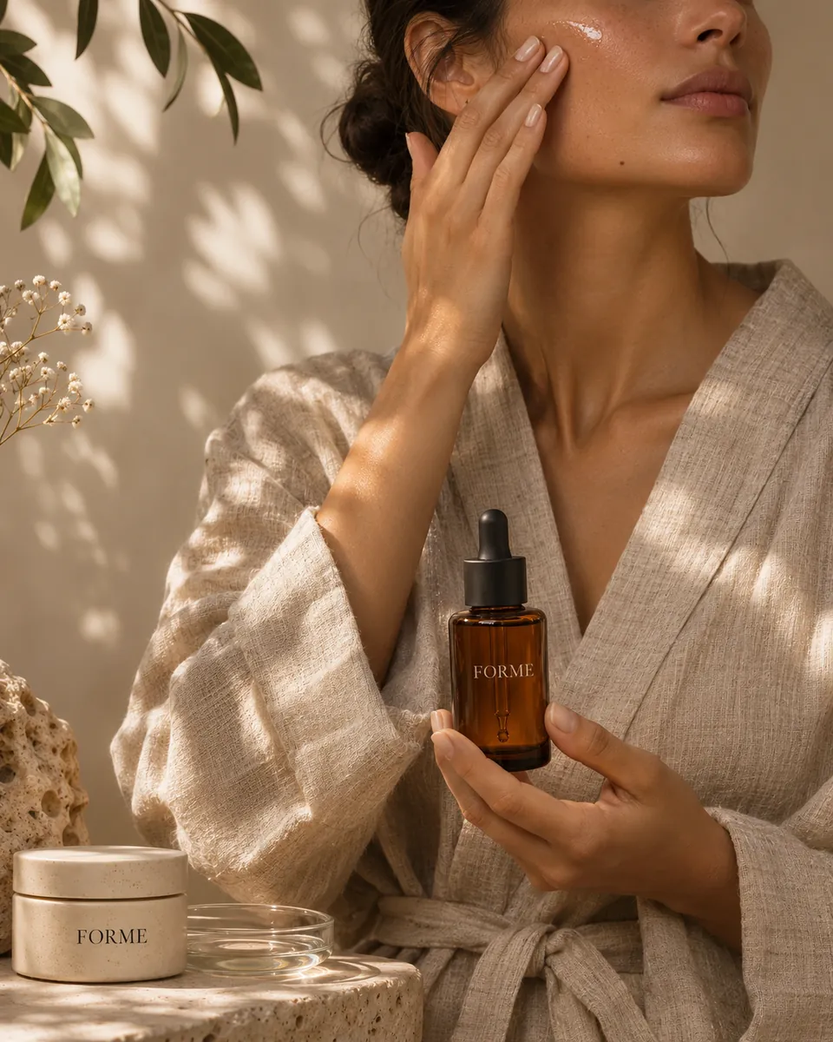
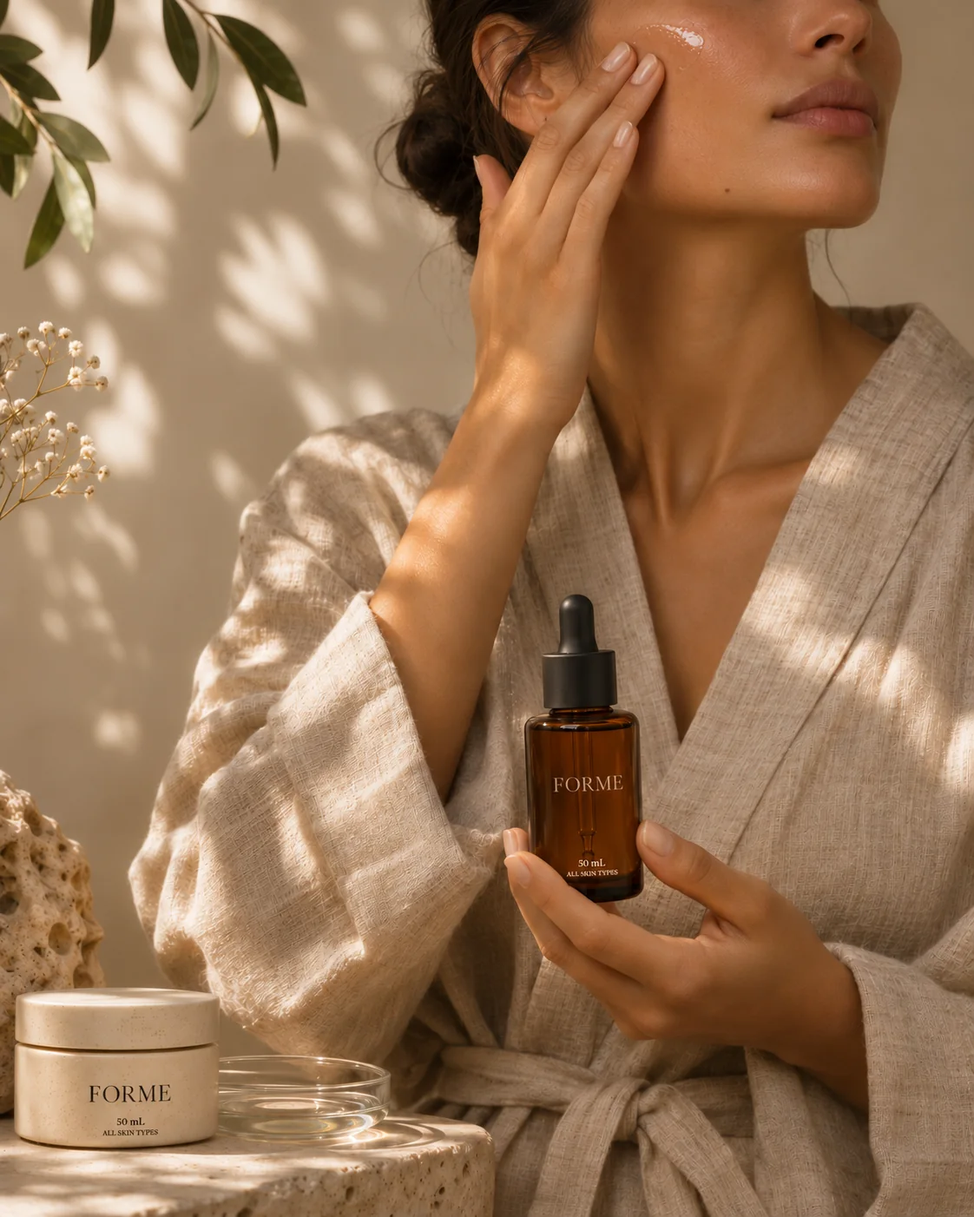
Update FORME with the new product photography
- Replace nine product, ritual and lifestyle images, with new labelled cut-outs
- Match the Dawn to Dusk Set to its photo: 50 ml serum, 30 ml elixir, 50 ml creme, A$249
- Stop the size options switching to an unrelated product image

Claude-Session: https://claude.ai/code/session_014mpj7FuxCNBg9oJHhCkLv3

diff --git a/public/forme/index.html b/public/forme/index.html
@@ -14,7 +14,6 @@
 <link href="https://fonts.googleapis.com/css2?family=Italiana&family=Jost:wght@300;400;500&family=Cormorant+Garamond:ital,wght@1,400;1,500&display=swap" rel="stylesheet">
 <link rel="stylesheet" href="/store-kit/kit.css?v=20261104a">
 <link rel="stylesheet" href="/forme/brand.css?v=20261104a">
-<link rel="preload" as="image" href="/forme/img/hero.webp">
 </head>
 <body class="fm">
 <a class="skip" href="#main">Skip to content</a>
@@ -46,17 +45,17 @@
     <div class="fm-hero-foot">
       <p class="fm-lead">Three formulas for a considered daily ritual. Fewer steps, clearer choices, and nothing you will not finish.</p>
       <div class="fm-stats"><div><b data-count="3">3</b><span>Formulas</span></div><div><b data-count="2">2</b><span>Sizes each</span></div><div><b data-count="100" data-suffix="%">100%</b><span>Refillable jars</span></div></div>
-      <div class="fm-picks"><button class="fm-pick" type="button" data-qv="radiant-serum" aria-label="View Daylight Serum"><span class="lbl">Serum</span><span class="fm-pick-ph"><img src="/forme/img/serum.webp?v=2" alt="" loading="lazy"></span><i aria-hidden="true">↗</i></button><button class="fm-pick" type="button" data-qv="restore-elixir" aria-label="View Nightfall Elixir"><span class="lbl">Elixir</span><span class="fm-pick-ph"><img src="/forme/img/elixir.webp?v=2" alt="" loading="lazy"></span><i aria-hidden="true">↗</i></button><button class="fm-pick" type="button" data-qv="nourishing-creme" aria-label="View Soft Stone Crème"><span class="lbl">Crème</span><span class="fm-pick-ph"><img src="/forme/img/creme.webp?v=2" alt="" loading="lazy"></span><i aria-hidden="true">↗</i></button></div>
+      <div class="fm-picks"><button class="fm-pick" type="button" data-qv="radiant-serum" aria-label="View Daylight Serum"><span class="lbl">Serum</span><span class="fm-pick-ph"><img src="/forme/img/serum.webp?v=3" alt="" loading="lazy"></span><i aria-hidden="true">↗</i></button><button class="fm-pick" type="button" data-qv="restore-elixir" aria-label="View Nightfall Elixir"><span class="lbl">Elixir</span><span class="fm-pick-ph"><img src="/forme/img/elixir.webp?v=3" alt="" loading="lazy"></span><i aria-hidden="true">↗</i></button><button class="fm-pick" type="button" data-qv="nourishing-creme" aria-label="View Soft Stone Crème"><span class="lbl">Crème</span><span class="fm-pick-ph"><img src="/forme/img/creme.webp?v=3" alt="" loading="lazy"></span><i aria-hidden="true">↗</i></button></div>
     </div>
   </div>
 </section>
 
 <section class="sec fm-believe">
   <figure class="fm-float l" data-speed=".14" aria-hidden="true"><img src="/forme/img/botanicals.webp" alt="" loading="lazy"></figure>
-  <figure class="fm-float r" data-speed="-.1" aria-hidden="true"><img src="/forme/img/model-ritual.webp" alt="" loading="lazy"></figure>
+  <figure class="fm-float r" data-speed="-.1" aria-hidden="true"><img src="/forme/img/model-ritual.webp?v=3" alt="" loading="lazy"></figure>
   <div class="wrap">
     <p class="fm-note" data-r>Every FORME formula is measured in drops, refilled not replaced, and listed with its sizes and price side by side.</p>
-    <h2 class="fm-bel" id="scrub">We believe in <span class="fm-chip" aria-hidden="true"><img src="/forme/img/serum.webp?v=2" alt=""></span> <b>beauty</b> that starts with <span class="fm-chip w" aria-hidden="true"><img src="/forme/img/elixir-hand.webp" alt=""></span> <b>self-care.</b></h2>
+    <h2 class="fm-bel" id="scrub">We believe in <span class="fm-chip" aria-hidden="true"><img src="/forme/img/serum.webp?v=3" alt=""></span> <b>beauty</b> that starts with <span class="fm-chip w" aria-hidden="true"><img src="/forme/img/elixir-hand.webp" alt=""></span> <b>self-care.</b></h2>
   </div>
 </section>
 
@@ -65,24 +64,24 @@
     <div class="sec-h"><div><span class="eb lbl">The considered collection</span><h2 class="disp" data-r>Shop FORME</h2></div><div style="display:flex;flex-direction:column;gap:16px;align-items:flex-end"><p data-r>Every formula in two sizes, with refills to keep the ritual going.</p><div class="filters" role="group" aria-label="Filter products"><button class="chip" type="button" data-f="all" aria-pressed="true">All</button><button class="chip" type="button" data-f="serums" aria-pressed="false">Serums</button><button class="chip" type="button" data-f="oils" aria-pressed="false">Oils</button><button class="chip" type="button" data-f="moisturisers" aria-pressed="false">Moisturisers</button><button class="chip" type="button" data-f="sets" aria-pressed="false">Sets</button></div></div></div>
     <div class="grid" id="grid">
         <div class="card fm-card" data-id="radiant-serum" data-cat="serums" data-r data-cursor="View" style="--tone:#6b4636">
-          <div class="ph"><span class="ast" aria-hidden="true">*</span><h3 class="fm-tt" aria-hidden="true">Daylight <i>Serum</i></h3><div class="rings" aria-hidden="true"><span class="ring r0"><span>Vitamin C</span></span><span class="ring r1"><span>Brightening</span></span></div><div class="stack"><img class="cut c0" src="/forme/img/cut-serum.webp?v=2" alt="FORME Daylight Serum in an amber dropper bottle" loading="lazy" decoding="async"></div>
+          <div class="ph"><span class="ast" aria-hidden="true">*</span><h3 class="fm-tt" aria-hidden="true">Daylight <i>Serum</i></h3><div class="rings" aria-hidden="true"><span class="ring r0"><span>Vitamin C</span></span><span class="ring r1"><span>Brightening</span></span></div><div class="stack"><img class="cut c0" src="/forme/img/cut-serum.webp?v=3" alt="FORME Daylight Serum in an amber bottle with a black dropper" loading="lazy" decoding="async"></div>
             <span class="fm-from lbl" aria-hidden="true">Brightening serum</span><button class="open" type="button" aria-label="View Daylight Serum, A$89"></button><button class="qa" type="button" aria-label="Quick add Daylight Serum to bag"><span>Quick add</span><span aria-hidden="true">+</span></button></div>
           <div class="meta"><h3>Daylight Serum</h3><span class="pr">From A$89</span><span class="ty">Brightening serum</span></div>
         </div>
         <div class="card fm-card" data-id="restore-elixir" data-cat="oils" data-r data-cursor="View" style="--tone:#8a5a45">
-          <div class="ph"><span class="ast" aria-hidden="true">*</span><h3 class="fm-tt" aria-hidden="true">Nightfall <i>Elixir</i></h3><div class="rings" aria-hidden="true"><span class="ring r0"><span>Squalane</span></span><span class="ring r1"><span>Overnight</span></span></div><div class="stack"><img class="cut c0" src="/forme/img/cut-elixir.webp?v=2" alt="FORME Nightfall Elixir in a small amber bottle" loading="lazy" decoding="async"></div>
+          <div class="ph"><span class="ast" aria-hidden="true">*</span><h3 class="fm-tt" aria-hidden="true">Nightfall <i>Elixir</i></h3><div class="rings" aria-hidden="true"><span class="ring r0"><span>Squalane</span></span><span class="ring r1"><span>Overnight</span></span></div><div class="stack"><img class="cut c0" src="/forme/img/cut-elixir.webp?v=3" alt="FORME Nightfall Elixir in an amber bottle with a gold collar" loading="lazy" decoding="async"></div>
             <span class="fm-from lbl" aria-hidden="true">Overnight facial oil</span><button class="open" type="button" aria-label="View Nightfall Elixir, A$72"></button><button class="qa" type="button" aria-label="Quick add Nightfall Elixir to bag"><span>Quick add</span><span aria-hidden="true">+</span></button></div>
           <div class="meta"><h3>Nightfall Elixir</h3><span class="pr">From A$72</span><span class="ty">Overnight facial oil</span></div>
         </div>
         <div class="card fm-card" data-id="nourishing-creme" data-cat="moisturisers" data-r data-cursor="View" style="--tone:#a77b62">
-          <div class="ph"><span class="ast" aria-hidden="true">*</span><h3 class="fm-tt" aria-hidden="true">Soft Stone <i>Crème</i></h3><div class="rings" aria-hidden="true"><span class="ring r0"><span>Ceramides</span></span><span class="ring r1"><span>Barrier</span></span></div><div class="stack"><img class="cut c0" src="/forme/img/cut-creme.webp?v=2" alt="FORME Soft Stone Crème in a sculpted stone-white jar" loading="lazy" decoding="async"></div>
+          <div class="ph"><span class="ast" aria-hidden="true">*</span><h3 class="fm-tt" aria-hidden="true">Soft Stone <i>Crème</i></h3><div class="rings" aria-hidden="true"><span class="ring r0"><span>Ceramides</span></span><span class="ring r1"><span>Barrier</span></span></div><div class="stack"><img class="cut c0" src="/forme/img/cut-creme.webp?v=3" alt="FORME Soft Stone Crème in a stone-textured jar" loading="lazy" decoding="async"></div>
             <span class="fm-from lbl" aria-hidden="true">Rich moisturiser</span><button class="open" type="button" aria-label="View Soft Stone Crème, A$84"></button><button class="qa" type="button" aria-label="Quick add Soft Stone Crème to bag"><span>Quick add</span><span aria-hidden="true">+</span></button></div>
           <div class="meta"><h3>Soft Stone Crème</h3><span class="pr">From A$84</span><span class="ty">Rich moisturiser</span></div>
         </div>
         <div class="card fm-card" data-id="daily-ritual" data-cat="sets" data-r data-cursor="View" style="--tone:#4a2e24">
-          <div class="ph"><span class="ast" aria-hidden="true">*</span><h3 class="fm-tt" aria-hidden="true">Dawn to <i>Dusk</i></h3><div class="rings" aria-hidden="true"><span class="ring r0"><span>Serum</span></span><span class="ring r1"><span>Elixir</span></span><span class="ring r2"><span>Crème</span></span></div><div class="stack many"><img class="cut c0" src="/forme/img/cut-elixir.webp?v=2" alt="The FORME Dawn to Dusk Set: serum, elixir and crème together" loading="lazy" decoding="async"><img class="cut c1" src="/forme/img/cut-serum.webp?v=2" alt="" loading="lazy" decoding="async"><img class="cut c2" src="/forme/img/cut-creme.webp?v=2" alt="" loading="lazy" decoding="async"></div>
-            <span class="fm-from lbl" aria-hidden="true">Serum, elixir &amp; crème</span><button class="open" type="button" aria-label="View The Dawn to Dusk Set, A$215"></button><button class="qa" type="button" aria-label="Quick add The Dawn to Dusk Set to bag"><span>Quick add</span><span aria-hidden="true">+</span></button></div>
-          <div class="meta"><h3>The Dawn to Dusk Set</h3><span class="pr">A$215</span><span class="ty">Serum, elixir &amp; crème</span></div>
+          <div class="ph"><span class="ast" aria-hidden="true">*</span><h3 class="fm-tt" aria-hidden="true">Dawn to <i>Dusk</i></h3><div class="rings" aria-hidden="true"><span class="ring r0"><span>Serum</span></span><span class="ring r1"><span>Elixir</span></span><span class="ring r2"><span>Crème</span></span></div><div class="stack many"><img class="cut c0" src="/forme/img/cut-elixir.webp?v=3" alt="The FORME Dawn to Dusk Set: serum, elixir and crème together" loading="lazy" decoding="async"><img class="cut c1" src="/forme/img/cut-serum.webp?v=3" alt="" loading="lazy" decoding="async"><img class="cut c2" src="/forme/img/cut-creme.webp?v=3" alt="" loading="lazy" decoding="async"></div>
+            <span class="fm-from lbl" aria-hidden="true">Serum, elixir &amp; crème</span><button class="open" type="button" aria-label="View The Dawn to Dusk Set, A$249"></button><button class="qa" type="button" aria-label="Quick add The Dawn to Dusk Set to bag"><span>Quick add</span><span aria-hidden="true">+</span></button></div>
+          <div class="meta"><h3>The Dawn to Dusk Set</h3><span class="pr">A$249</span><span class="ty">Serum, elixir &amp; crème</span></div>
         </div>
     </div>
   </div>
@@ -92,15 +91,15 @@
   <div class="wrap">
     <form class="pdp" id="pdpForm" data-id="radiant-serum" novalidate>
       <div class="gal">
-        <div class="thumbs"><button type="button" aria-label="Image 1 of 4" aria-current="true"><img src="/forme/img/serum.webp?v=2" alt="" loading="lazy"></button><button type="button" aria-label="Image 2 of 4" aria-current="false"><img src="/forme/img/serum-texture.webp" alt="" loading="lazy"></button><button type="button" aria-label="Image 3 of 4" aria-current="false"><img src="/forme/img/model-ritual.webp" alt="" loading="lazy"></button><button type="button" aria-label="Image 4 of 4" aria-current="false"><img src="/forme/img/ritual-set.webp?v=2" alt="" loading="lazy"></button></div>
-        <div class="stage" id="stage" data-cursor="Zoom"><img src="/forme/img/serum.webp?v=2" alt="FORME Daylight Serum in an amber dropper bottle" class="on" decoding="async"><img src="/forme/img/serum-texture.webp" alt="" class="" decoding="async" loading=lazy><img src="/forme/img/model-ritual.webp" alt="" class="" decoding="async" loading=lazy><img src="/forme/img/ritual-set.webp?v=2" alt="" class="" decoding="async" loading=lazy><span class="n lbl">1 / 4</span></div>
+        <div class="thumbs"><button type="button" aria-label="Image 1 of 4" aria-current="true"><img src="/forme/img/serum.webp?v=3" alt="" loading="lazy"></button><button type="button" aria-label="Image 2 of 4" aria-current="false"><img src="/forme/img/serum-texture.webp" alt="" loading="lazy"></button><button type="button" aria-label="Image 3 of 4" aria-current="false"><img src="/forme/img/model-ritual.webp?v=3" alt="" loading="lazy"></button><button type="button" aria-label="Image 4 of 4" aria-current="false"><img src="/forme/img/ritual-set.webp?v=3" alt="" loading="lazy"></button></div>
+        <div class="stage" id="stage" data-cursor="Zoom"><img src="/forme/img/serum.webp?v=3" alt="FORME Daylight Serum in an amber bottle with a black dropper" class="on" decoding="async"><img src="/forme/img/serum-texture.webp" alt="" class="" decoding="async" loading=lazy><img src="/forme/img/model-ritual.webp?v=3" alt="" class="" decoding="async" loading=lazy><img src="/forme/img/ritual-set.webp?v=3" alt="" class="" decoding="async" loading=lazy><span class="n lbl">1 / 4</span></div>
       </div>
       <div class="info">
         <span class="lbl muted">Collection / 01</span>
         <h2 class="disp">Daylight Serum</h2>
         <div class="price"><span class="pv"><span id="pdpPrice">A$89</span></span><small>Brightening serum</small></div>
         <p>A lightweight serum for a brighter, more even look. Three drops, morning and night.</p>
-        <fieldset class="opt"><legend class="lbl muted">Size</legend><div class="opts"><input type="radio" name="opt" id="opt0" value="30 ml" checked data-img="0"><label for="opt0">30 ml</label><input type="radio" name="opt" id="opt1" value="50 ml" data-img="1"><label for="opt1">50 ml</label></div></fieldset>
+        <fieldset class="opt"><legend class="lbl muted">Size</legend><div class="opts"><input type="radio" name="opt" id="opt0" value="30 ml" checked><label for="opt0">30 ml</label><input type="radio" name="opt" id="opt1" value="50 ml"><label for="opt1">50 ml</label></div></fieldset>
         <div class="buy"><div class="qty"><button type="button" data-d="-1" aria-label="Decrease quantity">−</button><output id="qty" aria-live="polite">1</output><button type="button" data-d="1" aria-label="Increase quantity">+</button></div>
           <button class="btn wide" id="addBtn" type="submit"><span class="st">Add to bag</span><span class="st2">Added ✓</span></button></div>
         <div class="assure"><div>Free delivery over A$120</div><div>30-day returns</div><div>Refills available</div></div>
@@ -119,7 +118,7 @@
       <ol class="fm-steps" id="fmSteps"><li><button type="button" class="fm-step" data-step="0"><b>01</b><span><strong>Cleanse</strong>Start on clean, dry skin. Pat, do not rub.</span></button></li><li><button type="button" class="fm-step on" data-step="1"><b>02</b><span><strong>Serum</strong>Three drops of Daylight Serum, pressed in with your palms.</span></button><a class="fm-step-add" href="#" data-add="radiant-serum" aria-label="Add Serum to bag"><span class="t">Add</span> +</a></li><li><button type="button" class="fm-step" data-step="2"><b>03</b><span><strong>Elixir</strong>Evenings: two drops of Nightfall Elixir to seal it in.</span></button><a class="fm-step-add" href="#" data-add="restore-elixir" aria-label="Add Elixir to bag"><span class="t">Add</span> +</a></li><li><button type="button" class="fm-step" data-step="3"><b>04</b><span><strong>Crème</strong>Soft Stone Crème last, morning and night.</span></button><a class="fm-step-add" href="#" data-add="nourishing-creme" aria-label="Add Crème to bag"><span class="t">Add</span> +</a></li></ol>
       <p class="fm-small">Morning: steps 1, 2 and 4. Evening: all four.</p></div>
     <div class="fm-panel-vis" aria-hidden="true"><svg class="fm-orbit" viewBox="0 0 400 400"><circle cx="200" cy="200" r="150"/><circle cx="200" cy="200" r="190"/></svg>
-      <span class="fm-tag t1">Clean actives</span><span class="fm-tag t2">Refillable glass</span><img class="ph" src="/forme/img/botanicals.webp" alt="" data-i="0" loading="lazy"><img class="cut on" src="/forme/img/cut-serum.webp?v=2" alt="" data-i="1" loading="lazy"><img class="cut" src="/forme/img/cut-elixir.webp?v=2" alt="" data-i="2" loading="lazy"><img class="cut" src="/forme/img/cut-creme.webp?v=2" alt="" data-i="3" loading="lazy"></div>
+      <span class="fm-tag t1">Clean actives</span><span class="fm-tag t2">Refillable glass</span><img class="ph" src="/forme/img/botanicals.webp" alt="" data-i="0" loading="lazy"><img class="cut on" src="/forme/img/cut-serum.webp?v=3" alt="" data-i="1" loading="lazy"><img class="cut" src="/forme/img/cut-elixir.webp?v=3" alt="" data-i="2" loading="lazy"><img class="cut" src="/forme/img/cut-creme.webp?v=3" alt="" data-i="3" loading="lazy"></div>
   </div></div>
 </section>
 <section class="sec" id="story">
@@ -133,7 +132,7 @@
 
 <section class="sec" id="journal" style="padding-top:0">
   <div class="wrap"><div class="sec-h"><div><span class="eb lbl">Journal</span><h2 class="fm-h2" data-r>Notes on <i>daily care</i></h2></div><p class="lbl muted">Drag to explore</p></div></div>
-  <div class="reel" id="reel" data-cursor="Drag" tabindex="0" aria-label="Journal, use arrow keys to scroll"><div class="track"><figure class="slide fm-tile" style="margin:0"><div class="ph"><img src="/forme/img/journal-morning.webp" alt="" loading="lazy" draggable="false"><span class="ast" aria-hidden="true">*</span><figcaption><span class="lbl">Journal 01</span><span class="fm-tile-t">How to <i>layer</i> skincare</span><span class="lbl">forme.com.au →</span></figcaption></div></figure><figure class="slide fm-tile" style="margin:0"><div class="ph"><img src="/forme/img/serum-texture.webp" alt="" loading="lazy" draggable="false"><span class="ast" aria-hidden="true">*</span><figcaption><span class="lbl">Journal 02</span><span class="fm-tile-t">Why <i>three</i> drops</span><span class="lbl">forme.com.au →</span></figcaption></div></figure><figure class="slide fm-tile" style="margin:0"><div class="ph"><img src="/forme/img/botanicals.webp" alt="" loading="lazy" draggable="false"><span class="ast" aria-hidden="true">*</span><figcaption><span class="lbl">Journal 03</span><span class="fm-tile-t">Sourced <i>slowly</i></span><span class="lbl">forme.com.au →</span></figcaption></div></figure><figure class="slide fm-tile" style="margin:0"><div class="ph"><img src="/forme/img/creme-texture.webp" alt="" loading="lazy" draggable="false"><span class="ast" aria-hidden="true">*</span><figcaption><span class="lbl">Journal 04</span><span class="fm-tile-t">The case for <i>refills</i></span><span class="lbl">forme.com.au →</span></figcaption></div></figure><figure class="slide fm-tile" style="margin:0"><div class="ph"><img src="/forme/img/stone-water.webp" alt="" loading="lazy" draggable="false"><span class="ast" aria-hidden="true">*</span><figcaption><span class="lbl">Journal 05</span><span class="fm-tile-t">Material <i>study</i></span><span class="lbl">forme.com.au →</span></figcaption></div></figure><figure class="slide fm-tile" style="margin:0"><div class="ph"><img src="/forme/img/journal-shelf.webp" alt="" loading="lazy" draggable="false"><span class="ast" aria-hidden="true">*</span><figcaption><span class="lbl">Journal 06</span><span class="fm-tile-t">Amber <i>glass</i></span><span class="lbl">forme.com.au →</span></figcaption></div></figure></div></div>
+  <div class="reel" id="reel" data-cursor="Drag" tabindex="0" aria-label="Journal, use arrow keys to scroll"><div class="track"><figure class="slide fm-tile" style="margin:0"><div class="ph"><img src="/forme/img/journal-morning.webp?v=3" alt="" loading="lazy" draggable="false"><span class="ast" aria-hidden="true">*</span><figcaption><span class="lbl">Journal 01</span><span class="fm-tile-t">How to <i>layer</i> skincare</span><span class="lbl">forme.com.au →</span></figcaption></div></figure><figure class="slide fm-tile" style="margin:0"><div class="ph"><img src="/forme/img/serum-texture.webp" alt="" loading="lazy" draggable="false"><span class="ast" aria-hidden="true">*</span><figcaption><span class="lbl">Journal 02</span><span class="fm-tile-t">Why <i>three</i> drops</span><span class="lbl">forme.com.au →</span></figcaption></div></figure><figure class="slide fm-tile" style="margin:0"><div class="ph"><img src="/forme/img/botanicals.webp" alt="" loading="lazy" draggable="false"><span class="ast" aria-hidden="true">*</span><figcaption><span class="lbl">Journal 03</span><span class="fm-tile-t">Sourced <i>slowly</i></span><span class="lbl">forme.com.au →</span></figcaption></div></figure><figure class="slide fm-tile" style="margin:0"><div class="ph"><img src="/forme/img/creme-texture.webp" alt="" loading="lazy" draggable="false"><span class="ast" aria-hidden="true">*</span><figcaption><span class="lbl">Journal 04</span><span class="fm-tile-t">The case for <i>refills</i></span><span class="lbl">forme.com.au →</span></figcaption></div></figure><figure class="slide fm-tile" style="margin:0"><div class="ph"><img src="/forme/img/stone-water.webp" alt="" loading="lazy" draggable="false"><span class="ast" aria-hidden="true">*</span><figcaption><span class="lbl">Journal 05</span><span class="fm-tile-t">Material <i>study</i></span><span class="lbl">forme.com.au →</span></figcaption></div></figure><figure class="slide fm-tile" style="margin:0"><div class="ph"><img src="/forme/img/journal-shelf.webp" alt="" loading="lazy" draggable="false"><span class="ast" aria-hidden="true">*</span><figcaption><span class="lbl">Journal 06</span><span class="fm-tile-t">Amber <i>glass</i></span><span class="lbl">forme.com.au →</span></figcaption></div></figure></div></div>
   <div class="wrap"><div class="reel-bar"><div class="pg"><b></b></div><span class="lbl muted">06 notes</span></div></div>
 </section>
 
@@ -193,7 +192,7 @@
 <div class="toast" id="toast" role="status" aria-live="polite"></div>
 <div class="cur" id="cur" aria-hidden="true"><b></b></div>
 
-<script type="application/json" id="catalog">{"products": [{"id": "radiant-serum", "name": "Daylight Serum", "type": "Brightening serum", "cat": "serums", "price": 89, "img": "/forme/img/serum.webp?v=2", "alt": "FORME Daylight Serum in an amber dropper bottle", "desc": "A lightweight serum for a brighter, more even look. Three drops, morning and night.", "gallery": ["/forme/img/serum.webp?v=2", "/forme/img/serum-texture.webp", "/forme/img/model-ritual.webp", "/forme/img/ritual-set.webp?v=2"], "options": {"label": "Size", "values": [{"v": "30 ml", "price": 89, "img": 0}, {"v": "50 ml", "price": 128, "img": 1}]}, "details": [["Size", "30 ml or 50 ml amber glass"], ["Skin type", "All skin types"], ["Use", "3 drops, morning and night"], ["Texture", "Weightless, absorbs in seconds"]]}, {"id": "restore-elixir", "name": "Nightfall Elixir", "type": "Overnight facial oil", "cat": "oils", "price": 72, "img": "/forme/img/elixir.webp?v=2", "alt": "FORME Nightfall Elixir in a small amber bottle", "desc": "A silky overnight oil that leaves skin soft and settled by morning.", "gallery": ["/forme/img/elixir.webp?v=2", "/forme/img/elixir-hand.webp", "/forme/img/journal-morning.webp"], "options": {"label": "Size", "values": [{"v": "30 ml", "price": 72}, {"v": "50 ml", "price": 118}]}, "details": [["Size", "30 ml or 50 ml"], ["Use", "2–3 drops after serum, evening"], ["Texture", "Silky dry oil"]]}, {"id": "nourishing-creme", "name": "Soft Stone Crème", "type": "Rich moisturiser", "cat": "moisturisers", "price": 84, "img": "/forme/img/creme.webp?v=2", "alt": "FORME Soft Stone Crème in a sculpted stone-white jar", "desc": "A rich, cushioning crème in a refillable stone-white jar.", "gallery": ["/forme/img/creme.webp?v=2", "/forme/img/creme-texture.webp", "/forme/img/journal-shelf.webp"], "options": {"label": "Format", "values": [{"v": "50 ml jar", "price": 84}, {"v": "50 ml refill", "price": 68}]}, "details": [["Size", "50 ml"], ["Packaging", "Refillable jar, recyclable refill pod"], ["Use", "Morning and night, last step"]]}, {"id": "daily-ritual", "name": "The Dawn to Dusk Set", "type": "Serum, elixir & crème", "cat": "sets", "price": 215, "img": "/forme/img/ritual-set.webp?v=2", "alt": "The FORME Dawn to Dusk Set: serum, elixir and crème together", "desc": "All three formulas, together. The complete morning and evening routine.", "gallery": ["/forme/img/ritual-set.webp?v=2", "/forme/img/stone-water.webp", "/forme/img/journal-shelf.webp"], "options": null, "details": [["Includes", "Daylight Serum 30 ml, Nightfall Elixir 30 ml, Soft Stone Crème 50 ml"], ["Saving", "A$30 on buying separately"]]}]}</script>
+<script type="application/json" id="catalog">{"products": [{"id": "radiant-serum", "name": "Daylight Serum", "type": "Brightening serum", "cat": "serums", "price": 89, "img": "/forme/img/serum.webp?v=3", "alt": "FORME Daylight Serum in an amber bottle with a black dropper", "desc": "A lightweight serum for a brighter, more even look. Three drops, morning and night.", "gallery": ["/forme/img/serum.webp?v=3", "/forme/img/serum-texture.webp", "/forme/img/model-ritual.webp?v=3", "/forme/img/ritual-set.webp?v=3"], "options": {"label": "Size", "values": [{"v": "30 ml", "price": 89}, {"v": "50 ml", "price": 128}]}, "details": [["Size", "30 ml or 50 ml amber glass"], ["Skin type", "All skin types"], ["Use", "3 drops, morning and night"], ["Texture", "Weightless, absorbs in seconds"]]}, {"id": "restore-elixir", "name": "Nightfall Elixir", "type": "Overnight facial oil", "cat": "oils", "price": 72, "img": "/forme/img/elixir.webp?v=3", "alt": "FORME Nightfall Elixir in an amber bottle with a gold collar", "desc": "A silky overnight oil that leaves skin soft and settled by morning.", "gallery": ["/forme/img/elixir.webp?v=3", "/forme/img/elixir-hand.webp", "/forme/img/journal-morning.webp?v=3"], "options": {"label": "Size", "values": [{"v": "30 ml", "price": 72}, {"v": "50 ml", "price": 118}]}, "details": [["Size", "30 ml or 50 ml"], ["Use", "2–3 drops after serum, evening"], ["Texture", "Silky dry oil"]]}, {"id": "nourishing-creme", "name": "Soft Stone Crème", "type": "Rich moisturiser", "cat": "moisturisers", "price": 84, "img": "/forme/img/creme.webp?v=3", "alt": "FORME Soft Stone Crème in a stone-textured jar", "desc": "A rich, cushioning crème in a refillable stone-white jar.", "gallery": ["/forme/img/creme.webp?v=3", "/forme/img/creme-texture.webp", "/forme/img/journal-shelf.webp"], "options": {"label": "Format", "values": [{"v": "50 ml jar", "price": 84}, {"v": "50 ml refill", "price": 68}]}, "details": [["Size", "50 ml"], ["Packaging", "Refillable jar, recyclable refill pod"], ["Use", "Morning and night, last step"]]}, {"id": "daily-ritual", "name": "The Dawn to Dusk Set", "type": "Serum, elixir & crème", "cat": "sets", "price": 249, "img": "/forme/img/ritual-set.webp?v=3", "alt": "The FORME Dawn to Dusk Set: serum, elixir and crème together", "desc": "All three formulas, together. The complete morning and evening routine.", "gallery": ["/forme/img/ritual-set.webp?v=3", "/forme/img/stone-water.webp", "/forme/img/journal-shelf.webp"], "options": null, "details": [["Includes", "Daylight Serum 50 ml, Nightfall Elixir 30 ml, Soft Stone Crème 50 ml"], ["Saving", "A$35 on buying separately"]]}]}</script>
 <script src="https://cdnjs.cloudflare.com/ajax/libs/gsap/3.12.5/gsap.min.js"></script>
 <script src="https://cdnjs.cloudflare.com/ajax/libs/gsap/3.12.5/ScrollTrigger.min.js"></script>
 <script src="https://cdn.jsdelivr.net/npm/lenis@1.1.13/dist/lenis.min.js"></script>

diff --git a/public/index.html b/public/index.html
@@ -521,7 +521,7 @@ html.off *,html.off *::before,html.off *::after{transition-duration:1ms!importan
         <div class="meta"><div><span class="lbl">Furniture / Interiors</span><h3>STILL HOUSE</h3></div><span class="line">Objects for a slower everyday.</span><span class="al">View project <span class="ar" aria-hidden="true">↗</span></span><span class="cc lbl">VIA77 Commerce Concept</span></div>
       </a>
       <a class="case " href="/forme/">
-        <div class="media imgwipe" data-wipe><img src="/media/homepage/store-forme-v3.webp" alt="FORME skincare storefront concept" width="1600" height="1000" loading="lazy" decoding="async"></div>
+        <div class="media imgwipe" data-wipe><img src="/media/homepage/store-forme-v4.webp" alt="FORME skincare storefront concept" width="1600" height="1000" loading="lazy" decoding="async"></div>
         <div class="meta"><div><span class="lbl">Beauty / Skincare</span><h3>FORME</h3></div><span class="line">A daily ritual. Reconsidered.</span><span class="al">View project <span class="ar" aria-hidden="true">↗</span></span><span class="cc lbl">VIA77 Commerce Concept</span></div>
       </a>
       <a class="case lift" href="/fern-and-field/">
@@ -582,7 +582,7 @@ html.off *,html.off *::before,html.off *::after{transition-duration:1ms!importan
       </a>
       <a class="b-row" href="/forme/">
         <span class="b-rule" aria-hidden="true"></span>
-        <img class="b-thumb" src="/media/homepage/store-forme-v3.webp" alt="FORME skincare storefront concept" width="1600" height="1000" loading="lazy" decoding="async">
+        <img class="b-thumb" src="/media/homepage/store-forme-v4.webp" alt="FORME skincare storefront concept" width="1600" height="1000" loading="lazy" decoding="async">
         <span class="idx lbl">04</span>
         <span class="b-nm">FORME</span>
         <span class="b-what">A daily ritual. Reconsidered.</span>
@@ -627,7 +627,7 @@ html.off *,html.off *::before,html.off *::after{transition-duration:1ms!importan
       </a>
     </div>
   </div>
-  <div class="b-prev" id="bPrev" aria-hidden="true"><div class="b-mask"><img src="/media/homepage/build-aliya.webp" alt="" width="1600" height="1000" decoding="async"><img src="/media/homepage/store-atelier09-v2.webp" alt="" width="1600" height="1000" decoding="async"><img src="/media/homepage/store-stillhouse-v2.webp" alt="" width="1600" height="1000" decoding="async"><img src="/media/homepage/store-forme-v3.webp" alt="" width="1600" height="1000" decoding="async"><img src="/media/homepage/build-fern-pdp.webp" alt="" width="1600" height="1000" decoding="async"><img src="/media/homepage/build-uppers.webp" alt="" width="1600" height="1000" decoding="async"><img src="/media/homepage/build-salim.webp" alt="" width="1600" height="1000" decoding="async"><img src="/media/homepage/glassi-afterparty-2026.webp" alt="" width="1600" height="1000" decoding="async"></div><span class="b-lbl lbl" id="bLbl"></span></div>
+  <div class="b-prev" id="bPrev" aria-hidden="true"><div class="b-mask"><img src="/media/homepage/build-aliya.webp" alt="" width="1600" height="1000" decoding="async"><img src="/media/homepage/store-atelier09-v2.webp" alt="" width="1600" height="1000" decoding="async"><img src="/media/homepage/store-stillhouse-v2.webp" alt="" width="1600" height="1000" decoding="async"><img src="/media/homepage/store-forme-v4.webp" alt="" width="1600" height="1000" decoding="async"><img src="/media/homepage/build-fern-pdp.webp" alt="" width="1600" height="1000" decoding="async"><img src="/media/homepage/build-uppers.webp" alt="" width="1600" height="1000" decoding="async"><img src="/media/homepage/build-salim.webp" alt="" width="1600" height="1000" decoding="async"><img src="/media/homepage/glassi-afterparty-2026.webp" alt="" width="1600" height="1000" decoding="async"></div><span class="b-lbl lbl" id="bLbl"></span></div>
 </section>
 
 <!-- ONE JOURNEY -->
